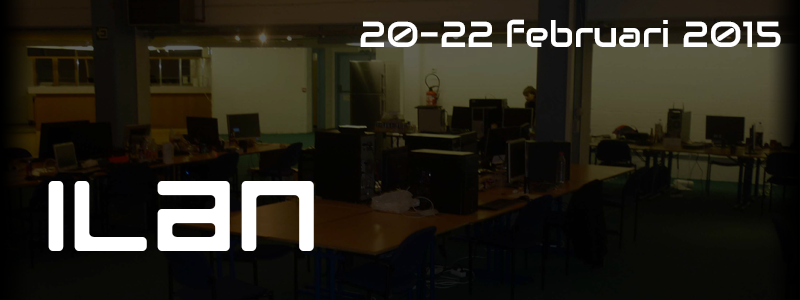
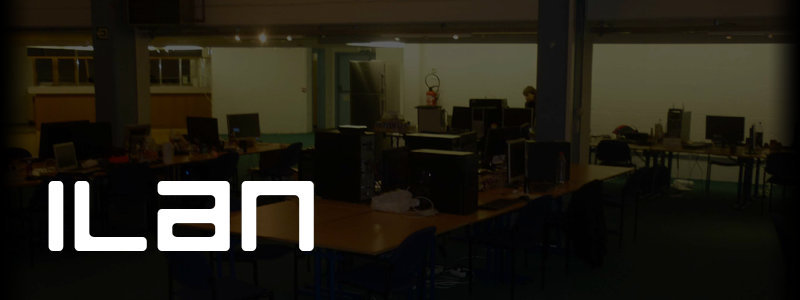
Update to year 2016

Changed region(s): [[0.4375, 0.06, 1.0, 0.18]]

diff --git a/app/assets/stylesheets/pages.css.scss b/app/assets/stylesheets/pages.css.scss
@@ -34,3 +34,17 @@
 		content: ":";
 	}
 }
+
+#banner-main {
+	display: inline-block;
+	position: relative;
+
+	.date {
+		position: absolute;
+		top: 35px;
+		right: 20px;
+		font-family: 'audiowideregular';
+		font-size: 35px;
+		color: white;
+	}
+}
